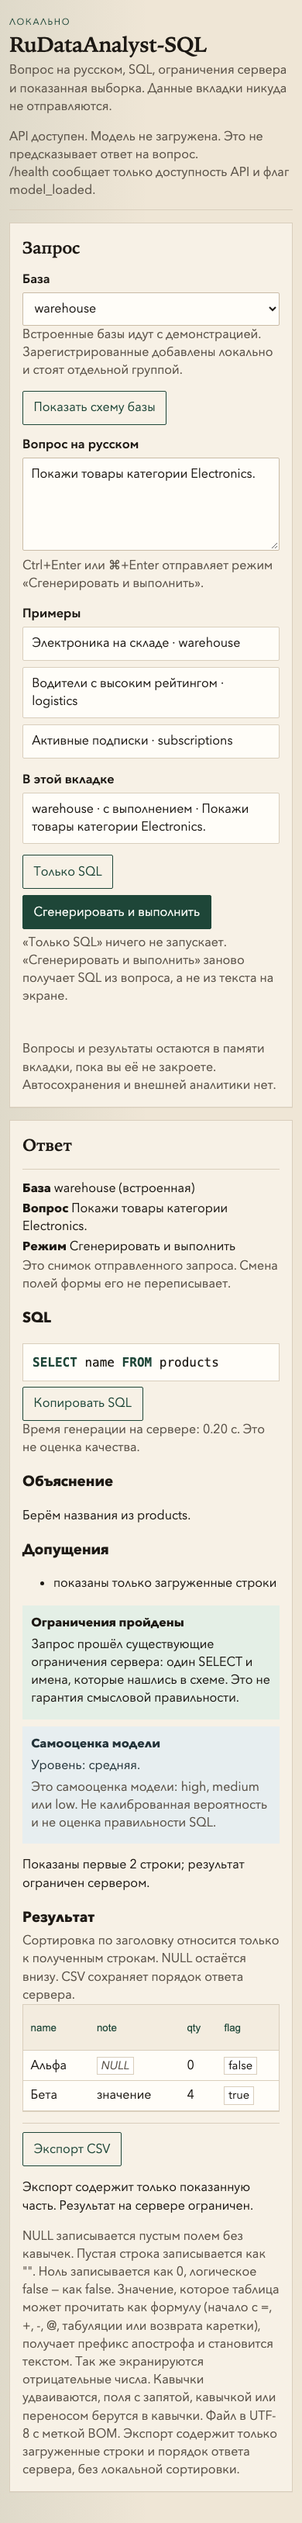
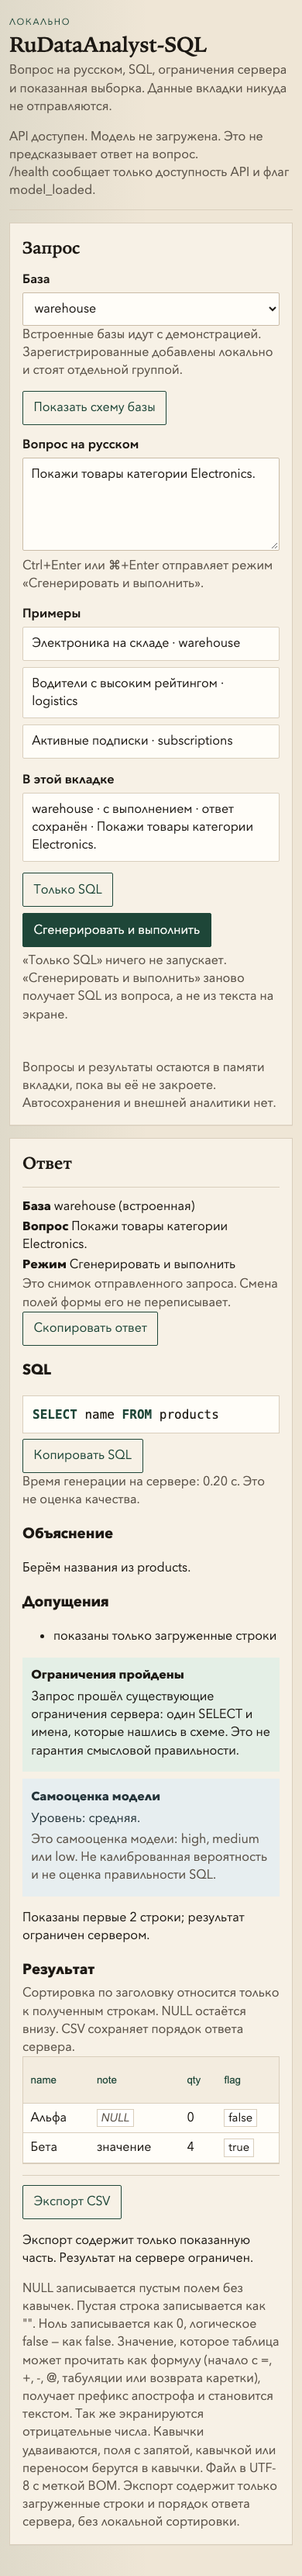
feat(ui): reopen a saved answer and copy it as text
Keep each submitted answer in the tab and show it again without a
new generation. From a blocked or mismatched result, open the schema
of the domain that was sent. Copy the shown answer as plain text
without turning guardrails or confidence into a verdict.

diff --git a/tests/e2e/analyst-ui.spec.js b/tests/e2e/analyst-ui.spec.js
@@ -387,12 +387,16 @@ test("there is no domain list, then retry restores it without dropping the quest
   await expect(page.locator("#question")).toHaveValue("черновик");
 });
 
-test("history restores a sent question and does not select a missing domain", async ({ page }) => {
+test("history restores a saved answer without a new request and ignores a missing domain", async ({ page }) => {
   let calls = 0;
   await page.route("**/v1/sql/generate", async (route) => {
     calls += 1;
     if (calls === 1) {
       await fulfillJson(route, 200, generateBody());
+      return;
+    }
+    if (calls === 2) {
+      await fulfillJson(route, 200, generateBody({ sql: "SELECT other_table" }));
       return;
     }
     await fulfillJson(route, 400, { detail: "domain_not_found" });
@@ -401,23 +405,82 @@ test("history restores a sent question and does not select a missing domain", as
   await ask(page, "первый вопрос");
   await page.getByRole("button", { name: "Только SQL", exact: true }).click();
   await expect(page.getByRole("heading", { name: "SQL без выполнения", exact: true })).toBeVisible();
-  await expect(page.getByRole("button", { name: /первый вопрос/ })).toBeVisible();
-  await ask(page, "черновик");
+  await expect(page.locator("#outcome")).toContainText("SELECT name FROM products");
+  await page.getByRole("button", { name: "Скопировать ответ" }).click();
+  await expect(page.locator("#form-notice")).toContainText("Ответ скопирован");
+  const copied = await page.evaluate(() => navigator.clipboard.readText());
+  expect(copied).toContain("первый вопрос");
+  expect(copied).toContain("SELECT name FROM products");
+  expect(copied).not.toContain("100%");
+  await ask(page, "второй вопрос");
+  await page.getByRole("button", { name: "Только SQL", exact: true }).click();
+  await expect(page.locator("#outcome")).toContainText("SELECT other_table");
   await page.getByRole("button", { name: /первый вопрос/ }).click();
   await expect(page.locator("#question")).toHaveValue("первый вопрос");
+  await expect(page.locator("#outcome")).toContainText("SELECT name FROM products");
+  await expect(page.locator("#outcome")).not.toContainText("SELECT other_table");
   await expect(page.locator("#form-notice")).toContainText("не отправлен");
-  expect(calls).toBe(1);
+  expect(calls).toBe(2);
 
   domainsMode = "subscriptions";
-  await ask(page, "второй вопрос");
+  await ask(page, "третий вопрос");
   await page.getByRole("button", { name: "Только SQL", exact: true }).click();
   await expect(page.getByRole("heading", { name: "Запрос отклонён сервером", exact: true })).toBeVisible();
   await expect(page.locator("#domain")).toHaveValue("");
   await page.getByRole("button", { name: /первый вопрос/ }).click();
   await expect(page.locator("#question")).toHaveValue("первый вопрос");
   await expect(page.locator("#domain")).toHaveValue("");
+  await expect(page.locator("#outcome")).toContainText("SELECT name FROM products");
   await expect(page.locator("#form-notice")).toContainText("нет в списке");
-  expect(calls).toBe(2);
+  expect(calls).toBe(3);
+});
+
+test("schema mismatch opens the submitted domain and refuses a missing one", async ({ page }) => {
+  await page.route("**/v1/sql/query", async (route) => {
+    await fulfillJson(route, 200, queryBody({
+      sql: "SELECT missing_column FROM products",
+      is_safe: true,
+      is_hallucinated: true,
+      error: "Schema hallucination: no such column",
+    }));
+  });
+  const schemaUrls = [];
+  await page.route("**/v1/schema/**", async (route) => {
+    schemaUrls.push(new URL(route.request().url()).pathname);
+    await fulfillJson(route, 200, {
+      domain: "warehouse",
+      source: "built_in",
+      dialect: "sqlite",
+      schema_sql: "CREATE TABLE products (id INTEGER);",
+    });
+  });
+  await openApp(page);
+  await page.locator("#domain").selectOption("subscriptions");
+  await ask(page, "вопрос про склад");
+  await page.locator("#domain").selectOption("warehouse");
+  await page.getByRole("button", { name: "Сгенерировать и выполнить" }).click();
+  await expect(page.getByRole("heading", { name: "SQL не соответствует схеме", exact: true })).toBeVisible();
+  await page.locator("#domain").selectOption("subscriptions");
+  await page.locator("#question").fill("черновик не должен уйти");
+  await page.getByRole("button", { name: "Показать схему этой базы" }).click();
+  await expect(page.locator("#schema-outline")).toContainText("products");
+  await expect(page.locator("#domain")).toHaveValue("warehouse");
+  await expect(page.locator("#question")).toHaveValue("черновик не должен уйти");
+  expect(schemaUrls).toEqual(["/v1/schema/warehouse"]);
+
+  domainsMode = "subscriptions";
+  await page.route("**/v1/sql/query", async (route) => {
+    await fulfillJson(route, 400, { detail: "domain_not_found" });
+  });
+  await page.getByRole("button", { name: "Сгенерировать и выполнить" }).click();
+  await expect(page.locator("#domain")).toHaveValue("");
+  await page.getByRole("button", { name: /вопрос про склад/ }).click();
+  await expect(page.getByRole("heading", { name: "SQL не соответствует схеме", exact: true })).toBeVisible();
+  await expect(page.locator("#domain")).toHaveValue("");
+  await page.getByRole("button", { name: "Показать схему этой базы" }).click();
+  await expect(page.locator("#form-notice")).toContainText("нет в списке");
+  await expect(page.locator("#domain")).toHaveValue("");
+  expect(schemaUrls).toEqual(["/v1/schema/warehouse"]);
 });
 
 test("capture the analyst workspace on a desktop and a phone", async ({ page }) => {

diff --git a/src/rudataanalyst_sql/serve/static/js/main.js b/src/rudataanalyst_sql/serve/static/js/main.js
@@ -1,3 +1,4 @@
+import { answerText } from "./answer_text.js";
 import { EXAMPLES } from "./examples.js";
 import {
   ApiError,
@@ -195,10 +196,12 @@ async function submit(mode) {
     const classified = classifyResponse(mode, data);
     state.view = viewFromClassification(classified, ticket);
     state.phase = classified.phase;
+    attachHistory(ticket.id, state.view);
     announce(announcementFor(state.view));
   } catch (err) {
     if (!state.inflight || state.inflight.id !== ticket.id) return;
     if (err instanceof ApiError && err.kind === "aborted") {
+      dropHistory(ticket.id);
       state.view = state.heldView;
       state.phase = state.view?.phase || "ready";
       showNotice("Ожидание прекращено. Вычисления на сервере могли продолжиться.");
@@ -218,6 +221,7 @@ async function submit(mode) {
         expanded: new Set(),
       };
       state.phase = "request_error";
+      attachHistory(ticket.id, state.view);
       announce(announcementFor(state.view));
       if (detailIsDomainMissing(error)) {
         showNotice("Выбранная база недоступна. Список обновляется, вопрос сохранён.");
@@ -251,29 +255,71 @@ function announcementFor(view) {
 }
 
 function rememberSubmission(ticket) {
-  const entry = { domain: ticket.domain, question: ticket.question, mode: ticket.mode };
+  const entry = {
+    id: ticket.id,
+    domain: ticket.domain,
+    question: ticket.question,
+    mode: ticket.mode,
+    status: "pending",
+    view: null,
+  };
+  state.history = [entry, ...state.history].slice(0, 8);
+  renderHistory(state.history);
+}
+
+function attachHistory(ticketId, view) {
+  const entry = state.history.find((item) => item.id === ticketId);
+  if (!entry) return;
+  entry.status = "saved";
+  entry.view = view;
   state.history = [
     entry,
-    ...state.history.filter((item) => item.domain !== entry.domain || item.question !== entry.question || item.mode !== entry.mode),
+    ...state.history.filter((item) => item !== entry && !(
+      item.domain === entry.domain && item.question === entry.question && item.mode === entry.mode
+    )),
   ].slice(0, 8);
   renderHistory(state.history);
 }
 
+function dropHistory(ticketId) {
+  state.history = state.history.filter((item) => item.id !== ticketId);
+  renderHistory(state.history);
+}
+
 function restoreHistory(index) {
+  if (state.inflight) return;
   const entry = state.history[index];
-  if (!entry) return;
+  if (!entry || entry.status !== "saved" || !entry.view) return;
   questionInput.value = entry.question;
   state.form.question = entry.question;
-  if (!knownDomains().includes(entry.domain)) {
-    showNotice(`В истории база «${entry.domain}». Её нет в списке, выбор не изменён. Вопрос возвращён в поле, запрос не отправлен.`);
-    questionInput.focus();
+  const known = knownDomains().includes(entry.domain);
+  if (known) {
+    if (state.form.domain !== entry.domain) clearSchema();
+    state.form.domain = entry.domain;
+    domainSelect.value = entry.domain;
+  }
+  state.view = entry.view;
+  state.phase = entry.view.phase;
+  renderOutcome(state);
+  showNotice(known
+    ? "Показан сохранённый ответ этой вкладки. Запрос не отправлен."
+    : `Базы «${entry.domain}» нет в списке. Выбор не изменён. Показан сохранённый ответ. Запрос не отправлен.`);
+  announce("Показан сохранённый ответ. Запрос не отправлен.");
+  questionInput.focus();
+}
+
+async function showSnapshotSchema(domain) {
+  if (state.inflight) return;
+  if (!domain || !knownDomains().includes(domain)) {
+    showNotice(`Базы «${domain || ""}» из этого ответа нет в списке. Схема не запрашивалась, выбор не изменён.`);
     return;
   }
-  if (state.form.domain !== entry.domain) clearSchema();
-  state.form.domain = entry.domain;
-  domainSelect.value = entry.domain;
-  showNotice("Вопрос из истории возвращён в поле. Запрос не отправлен.");
-  questionInput.focus();
+  if (domainSelect.value !== domain) {
+    domainSelect.value = domain;
+    state.form.domain = domain;
+  }
+  showNotice("Открывается схема базы из этого ответа. Вопрос в поле не изменён.");
+  await loadSchema();
 }
 
 function insertSchemaName(name) {
@@ -311,7 +357,10 @@ async function copyText(text, statusId, success, failure) {
     ok = document.execCommand("copy");
     area.remove();
   }
-  if (status) status.textContent = ok ? success : failure;
+  const message = ok ? success : failure;
+  if (status) status.textContent = message;
+  else showNotice(message);
+  if (ok) announce(message);
 }
 
 function cellValue(key) {
@@ -417,6 +466,19 @@ function onOutcomeClick(event) {
     else state.view.sort = { column: null, dir: "asc" };
     renderOutcome(state);
     document.querySelector(`[data-action="sort"][data-col="${column}"]`)?.focus();
+    return;
+  }
+  if (action === "copy-answer") {
+    copyText(
+      answerText(state.view),
+      null,
+      "Ответ скопирован как текст. Повторной генерации не было.",
+      "Не удалось скопировать ответ",
+    );
+    return;
+  }
+  if (action === "show-schema") {
+    showSnapshotSchema(button.dataset.domain || state.view.domain);
     return;
   }
   if (action === "retry") submit(state.view.mode);

diff --git a/src/rudataanalyst_sql/serve/static/js/answer_text.js b/src/rudataanalyst_sql/serve/static/js/answer_text.js
@@ -1,0 +1,67 @@
+import { safetyState } from "./state.js";
+
+const SAFETY = {
+  passed: "ограничения пройдены; это не смысловая правильность",
+  blocked: "SQL заблокирован ограничениями",
+  schema_mismatch: "SQL не соответствует схеме",
+  structural_only: "схема не подтверждена",
+  unknown: "статус ограничений неизвестен",
+};
+
+const CONFIDENCE = {
+  high: "высокая",
+  medium: "средняя",
+  low: "низкая",
+};
+
+function modeLine(mode) {
+  return mode === "generate" ? "Только SQL" : "Сгенерировать и выполнить";
+}
+
+export function answerText(view) {
+  if (!view || typeof view !== "object") return "";
+  const lines = [
+    `База: ${view.domain || ""}`,
+    `Вопрос: ${view.question || ""}`,
+    `Режим: ${modeLine(view.mode)}`,
+  ];
+  const gen = view.gen;
+  if (gen && typeof gen.sql === "string") {
+    lines.push("", "SQL:", gen.sql);
+  }
+  if (gen && typeof gen.explanation === "string" && gen.explanation.trim()) {
+    lines.push("", "Объяснение:", gen.explanation);
+  }
+  if (gen && Array.isArray(gen.assumptions)) {
+    const items = gen.assumptions.filter((item) => typeof item === "string" && item.trim());
+    if (items.length) {
+      lines.push("", "Допущения:");
+      for (const item of items) lines.push(`- ${item}`);
+    }
+  }
+  if (gen) {
+    const safety = SAFETY[safetyState(gen)] || SAFETY.unknown;
+    const confidence = typeof gen.confidence === "string" ? CONFIDENCE[gen.confidence] : "";
+    lines.push("", `Ограничения: ${safety}`);
+    lines.push(confidence ? `Самооценка: ${confidence}` : "Самооценка: не указана");
+    if (typeof gen.error === "string" && gen.error.trim()) {
+      lines.push(`Сообщение проверки: ${gen.error}`);
+    }
+  }
+  if (view.query && Array.isArray(view.query.rows)) {
+    const truncated = view.query.truncated === true
+      ? "показана только часть"
+      : view.query.truncated === false
+        ? "сервер не назвал это размером базы"
+        : "сервер не сообщил, полный ли ответ";
+    lines.push("", `Показано строк: ${view.query.rows.length} (${truncated}).`);
+  }
+  if (view.phase === "request_error") {
+    lines.push("", "Ответ сервера не принят как результат SQL.");
+    for (const line of view.error?.lines || []) {
+      if (typeof line === "string" && line.trim()) lines.push(line);
+    }
+  }
+  lines.push("", "Текст собран из показанного ответа вкладки. Новая генерация не запускалась.");
+  return lines.join("\n");
+}

diff --git a/src/rudataanalyst_sql/serve/static/js/render.js b/src/rudataanalyst_sql/serve/static/js/render.js
@@ -368,6 +368,23 @@ function renderRequestError(view) {
   return box;
 }
 
+function answerActions(view) {
+  const row = h("div", { className: "row-actions" });
+  row.append(h("button", {
+    className: "btn secondary",
+    text: "Скопировать ответ",
+    attrs: { type: "button", "data-action": "copy-answer" },
+  }));
+  if (view.phase === "blocked_sql" || view.phase === "schema_mismatch") {
+    row.append(h("button", {
+      className: "btn secondary",
+      text: "Показать схему этой базы",
+      attrs: { type: "button", "data-action": "show-schema", "data-domain": view.domain || "" },
+    }));
+  }
+  return row;
+}
+
 export function renderOutcome(state) {
   const root = document.getElementById("outcome");
   root.replaceChildren();
@@ -386,10 +403,12 @@ export function renderOutcome(state) {
   const view = state.view;
   root.dataset.phase = view.phase;
   if (view.phase === "request_error") {
+    root.append(answerActions(view));
     root.append(renderRequestError(view));
     return;
   }
   root.append(contextBlock(view));
+  root.append(answerActions(view));
   root.append(sqlBlock(view.gen));
   root.append(explanationBlock(view.gen));
   const assumptions = assumptionsBlock(view.gen);
@@ -522,8 +541,10 @@ export function renderHistory(entries) {
     button.className = "example";
     button.dataset.action = "restore-history";
     button.dataset.index = String(index);
+    button.disabled = entry.status !== "saved";
     const sentAs = entry.mode === "generate" ? "без выполнения" : "с выполнением";
-    button.textContent = `${entry.domain} · ${sentAs} · ${entry.question}`;
+    const kept = entry.status === "saved" ? "ответ сохранён" : "ждёт ответ";
+    button.textContent = `${entry.domain} · ${sentAs} · ${kept} · ${entry.question}`;
     list.append(button);
   });
 }

diff --git a/src/rudataanalyst_sql/serve/static/index.html b/src/rudataanalyst_sql/serve/static/index.html
@@ -57,7 +57,7 @@
 
         <div class="field">
           <p class="field-label" id="history-label">В этой вкладке</p>
-          <p id="history-empty" class="fine">Отправленные вопросы появятся здесь и останутся до закрытия вкладки.</p>
+          <p id="history-empty" class="fine">Отправленные вопросы и их ответы остаются здесь до закрытия вкладки. Повторной генерации при выборе нет.</p>
           <div id="history" class="examples" role="group" aria-labelledby="history-label"></div>
         </div>
 

diff --git a/docs/LOCAL_DEMO.md b/docs/LOCAL_DEMO.md
@@ -29,7 +29,8 @@ The page is a local analyst workspace:
 *   `truncated: true` says how many rows were actually returned. `truncated: false` is not described as the size of the database. Zero rows, `NULL`, an empty string, `0` and `false` look different.
 *   CSV export covers loaded rows only. `NULL` is an empty field, an empty string is `""`, and formula-like values are prefixed with an apostrophe.
 *   **Показать схему базы** calls `GET /v1/schema/{domain_id}` and shows the server DDL text. A table and column list is parsed from that text only. **Вставить** puts a name into the question and does not send it. Relationships that are not written in the DDL are not added.
-*   **В этой вкладке** keeps questions you already sent, up to eight, until the tab closes. Choosing one fills the form again and does not send a request. A missing domain is not selected.
+*   **В этой вкладке** keeps up to eight submitted questions and their answers until the tab closes. Choosing one shows that saved answer and fills the form. It does not generate again. A missing domain is not selected. Cancelling the wait does not keep an answer. **Скопировать ответ** copies the shown question, SQL, explanation, assumptions and the two statuses as plain text.
+*   **Показать схему этой базы** appears when SQL is blocked or does not match the schema. It requests the schema of the domain that was submitted with that answer.
 *   **Прекратить ожидание** aborts the browser wait only. The server may keep generating. There is no automatic retry.
 *   Questions and results stay in the tab. They are not written to `localStorage`.
 

diff --git a/README.md b/README.md
@@ -56,7 +56,7 @@ curl http://127.0.0.1:8000/v1/schema/warehouse
 {"domain": "warehouse", "source": "built_in", "dialect": "sqlite", "schema_sql": "CREATE TABLE ..."}
 ```
 
-The id must match `^[A-Za-z0-9_-]{1,200}$` and an allowlisted built-in or registered domain. Unknown ids, dotted names and path-like ids return `400 {"detail":"domain_not_found"}`. The response does not include a filesystem path. Query parameters and a request body cannot point the server at a file. The page lists tables and columns parsed from `schema_sql` and still shows that text. Inserting a name only edits the question.
+The id must match `^[A-Za-z0-9_-]{1,200}$` and an allowlisted built-in or registered domain. Unknown ids, dotted names and path-like ids return `400 {"detail":"domain_not_found"}`. The response does not include a filesystem path. Query parameters and a request body cannot point the server at a file. The page lists tables and columns parsed from `schema_sql` and still shows that text. Inserting a name only edits the question. A blocked or mismatched result can open the schema of the domain that was sent. The tab remembers the last eight answers and can show them again without a new generation. Copying an answer writes plain text, not a verdict.
 
 ### CSV export
 
